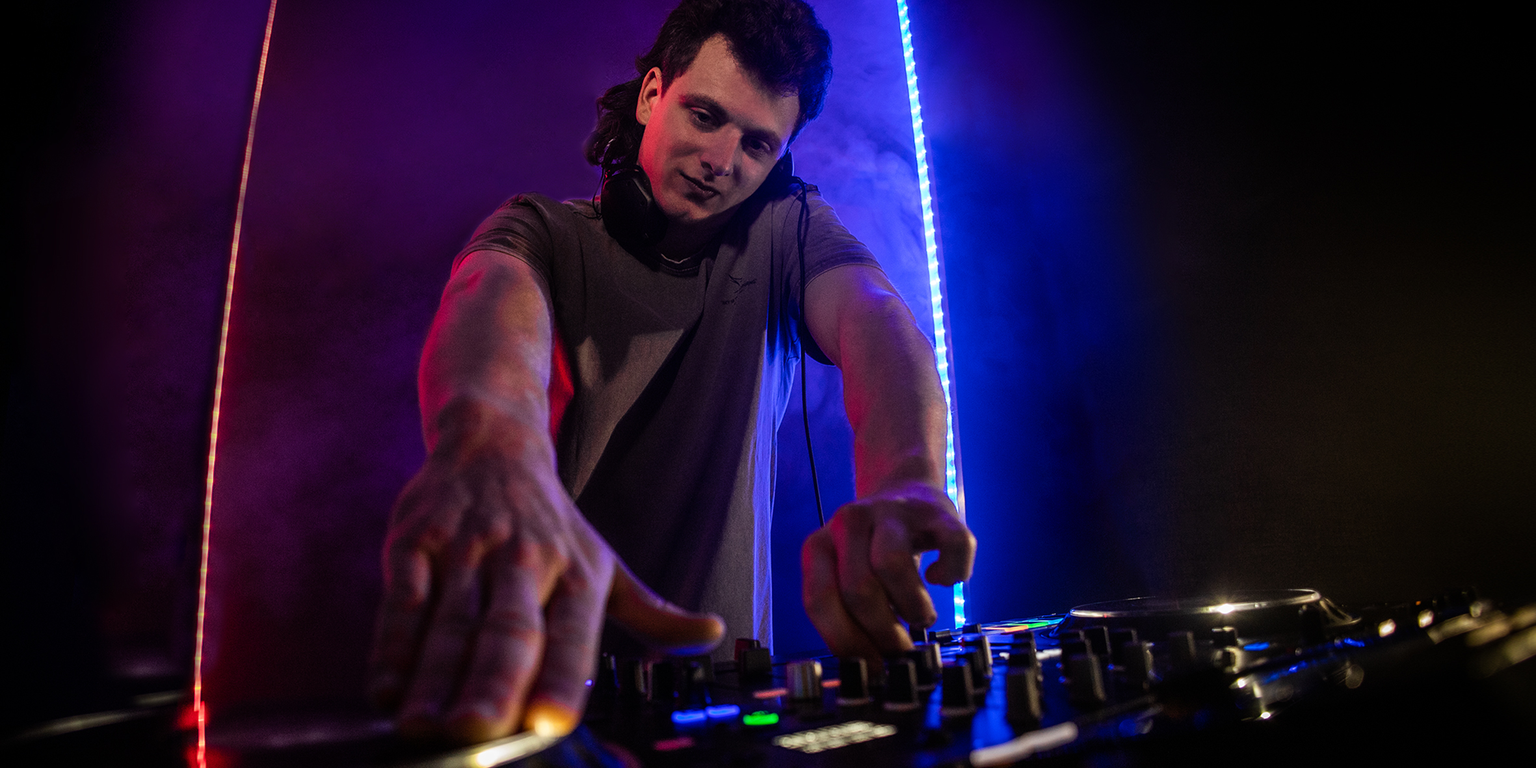
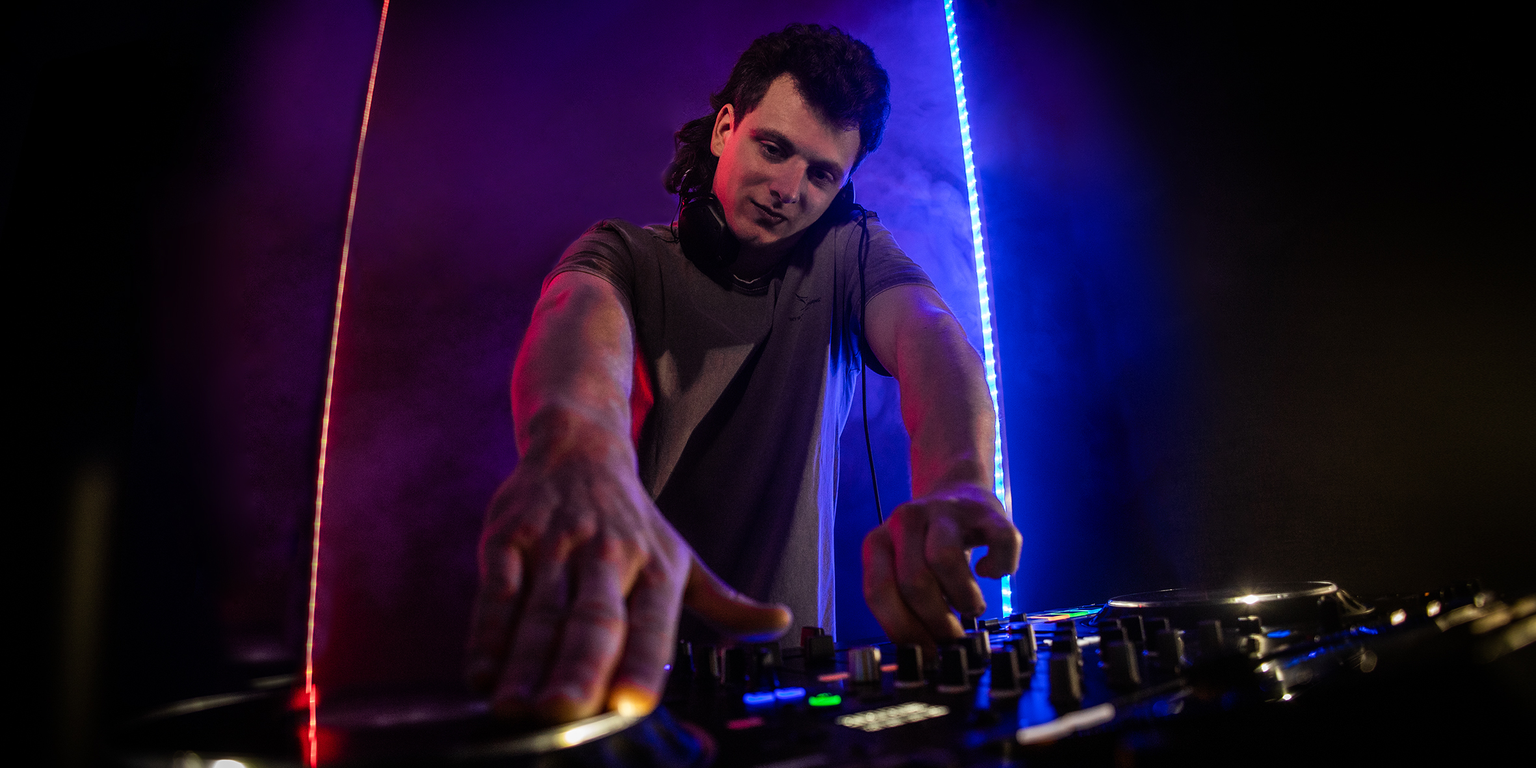
feat: 💄 ui/ux fixes with nils

diff --git a/src/lib/about/+page.svelte b/src/lib/about/+page.svelte
@@ -7,21 +7,6 @@
 	const options = {};
 </script>
 
-<div class="mt-16 w-full flex flex-row justify-center text-5xl">
-	<Text text="*Das bin ich*" />
-	<div
-		class="flex flex-row justify-center transform duration-1000 ease-in-out text-text mt-2 h-[40px]"
-		use:inview={options}
-		on:enter={(event) => {
-			const { inView } = event.detail;
-			isInView = inView;
-		}}
-		class:rotate-180={isInView}
-		class:-rotate-180={!isInView}
-	>
-		<Icon icon="emojione-monotone:optical-disk" height={40} width={40} />
-	</div>
-</div>
 <div
 	id="audiosamples"
 	class="w-full text-center flex flex-row justify-center space-x-10 pt-5 mb-16"
@@ -39,7 +24,6 @@
 						text="
 						Lorem ipsum dolor sit amet, consectetur adipiscing elit, sed do eiusmod tempor incididunt ut labore et dolore magna aliqua. Tortor aliquam nulla facilisi cras. Magna fermentum iaculis eu non. A diam sollicitudin tempor id eu. Ac orci phasellus egestas tellus rutrum tellus pellentesque. At in tellus integer feugiat scelerisque varius. Blandit aliquam etiam erat velit scelerisque. Convallis posuere morbi leo urna molestie at elementum eu. Ipsum nunc aliquet bibendum enim. Ornare massa eget egestas purus viverra accumsan in nisl. Aliquam faucibus purus in massa tempor nec feugiat nisl. Consequat interdum varius sit amet mattis vulputate enim nulla aliquet. Eget nulla facilisi etiam dignissim diam quis. Tempor nec feugiat nisl pretium fusce. Id cursus metus aliquam eleifend. Dui vivamus arcu felis bibendum ut tristique.
 
-Amet consectetur adipiscing elit ut aliquam purus. Augue interdum velit euismod in pellentesque massa. Elit ullamcorper dignissim cras tincidunt lobortis. Natoque penatibus et magnis dis parturient montes. Eros in cursus turpis massa tincidunt. Viverra aliquet eget sit amet tellus cras adipiscing enim. Nunc non blandit massa enim. Praesent elementum facilisis leo vel fringilla. Tellus integer feugiat scelerisque varius morbi. Pellentesque habitant morbi tristique senectus et. Etiam erat velit scelerisque in dictum. Amet porttitor eget dolor morbi non arcu. Aliquet bibendum enim facilisis gravida neque convallis a. Hendrerit gravida rutrum quisque non tellus orci ac auctor. Augue mauris augue neque gravida in fermentum et.
 					"
 					/>
 				</div>

diff --git a/src/lib/lander/+page.svelte b/src/lib/lander/+page.svelte
@@ -5,34 +5,29 @@
 	import Logo from '$lib/Logo/+page.svelte';
 </script>
 
-<div class="w-full h-screen flex flex-row justify-center mainBackground">
-	<div class="h-screen flex flex-col justify-center w-1/2">
+<div class="absolute w-full h-screen flex flex-row mt-6 justify-between">
+	<div class="w-[11rem] ml-6">
 		<Logo />
-		<!-- <MediaQuery query="desktop">
-			<div class="w-full mt-4 flex flex-col lg:flex-row lg:space-x-10 justify-center">
-				<div
-					use:scrollTo={{ ref: 'contact', offset: -window.innerHeight * 0.8, duration: 1500 }}
-					class="mt-4 w-full text-2xl flex flex-row justify-center bg-secondary font-bold p-2 border rounded-md"
-				>
-					<Text text="*Kontakt*" />
-				</div>
-				<a
-					href="https://www.youtube.com/@nilsfocke"
-					target="_blank"
-					rel="noreferrer"
-					class="mt-4 w-full text-2xl flex flex-row justify-center bg-secondary font-bold p-2 border rounded-md"
-				>
-					<Text text="*Live DJ Mix*" />
-				</a>
-			</div>
-		</MediaQuery> -->
 	</div>
+	<div class="w-[20rem] mr-6 h-20 bg-surface">Sozial media</div>
 </div>
+<img class="h-screen object-cover" src="/Title_Nils_Focke.jpg" alt="Title Nils Focke" />
 
-<style>
-	.mainBackground {
-		background-image: url('/Title_Nils_Focke.jpg');
-		background-size: cover;
-		background-position: center;
-	}
-</style>
+<!-- <MediaQuery query="desktop">
+	<div class="w-full mt-4 flex flex-col lg:flex-row lg:space-x-10 justify-center">
+		<div
+			use:scrollTo={{ ref: 'contact', offset: -window.innerHeight * 0.8, duration: 1500 }}
+			class="mt-4 w-full text-2xl flex flex-row justify-center bg-secondary font-bold p-2 border rounded-md"
+		>
+			<Text text="*Kontakt*" />
+		</div>
+		<a
+			href="https://www.youtube.com/@nilsfocke"
+			target="_blank"
+			rel="noreferrer"
+			class="mt-4 w-full text-2xl flex flex-row justify-center bg-secondary font-bold p-2 border rounded-md"
+		>
+			<Text text="*Live DJ Mix*" />
+		</a>
+	</div>
+</MediaQuery> -->

diff --git a/src/lib/contact/+page.svelte b/src/lib/contact/+page.svelte
@@ -5,7 +5,7 @@
 	let booking: boolean;
 </script>
 
-<div id="contact" class="w-full mb-36">
+<div id="contact" class="w-full mb-20">
 	<div class="w-full flex flex-row justify-center">
 		<div class="w-1/2 flex flex-col space-y-5">
 			<div class="mt-16 text-5xl flex flex-row justify-center">
@@ -24,9 +24,8 @@
 						</div>
 						<div class="flex flex-row justify-center">
 							<div class="mt-2">
-								<Text text="*Mein Standort*" />
 								<div class="mt-2">
-									<Text text="48143 Münster" />
+									<Text text="48308 Senden" />
 								</div>
 							</div>
 						</div>
@@ -45,7 +44,6 @@
 					</div>
 					<div class="flex flex-row justify-center">
 						<div class="mt-2 p-2">
-							<Text text="*So kannst du mich erreichen*" />
 							<div class="mt-2 flex flex-row">
 								<div>
 									<Text text="Phone:" />
@@ -54,7 +52,7 @@
 									</div>
 								</div>
 								<div class="ml-4">
-									<Text text="+49 173 123321" />
+									<Text text="+49 1525 6594780" />
 									<div class="mt-1">
 										<Text text="info@nilsfocke.de" />
 									</div>

diff --git a/src/routes/+page.svelte b/src/routes/+page.svelte
@@ -9,6 +9,7 @@
 	let scrollPosition = 0;
 </script>
 
+<!-- <svelte:window bind:scrollY={scrollPosition} /> -->
 <!-- <SvelteSeo
 	title="DJ Nils Focke"
 	description="Mein Name ist Nils Focke. Ich bin DJ und kenne mich in der House- und Hardstyle Szene aus."
@@ -19,10 +20,14 @@
 /> -->
 <div class="w-full min-h-screen flex flex-row justify-center bg-black scroll-smooth">
 	<div class="w-screen flex flex-col">
-		<div class="bg-black z-0" style="transform: translateY({scrollPosition * 0.5}px)">
+		<div class="bg-black z-0">
 			<Lander />
 		</div>
-		<div use:scrollRef={'gallery'} class="bg-secondary z-10 opacity-95">
+		<div
+			use:scrollRef={'gallery'}
+			class="bg-gradient-to-r from-primary to-secondary z-20 rounded-3xl"
+		>
+			<!-- style="transform:translate(0px, {-scrollPosition + window.innerHeight}px)" -->
 			<Gallery />
 		</div>
 		<div use:scrollRef={'about'} class="bg-black z-10 ">

diff --git a/src/lib/gallery/+page.svelte b/src/lib/gallery/+page.svelte
@@ -34,9 +34,6 @@
 <svelte:window bind:innerWidth />
 
 <div class="flex flex-col w-full justify-center text-5xl">
-	<div class="pt-10 px-6 flex flex-row justify-center">
-		<Text text="*So sehen meine Auftritte aus*" />
-	</div>
 	<div class="mt-10 mb-10 flex flex-col">
 		<MediaQuery query="desktop">
 			<ImageCarousel medias={images} />

diff --git a/src/lib/Logo/+page.svelte b/src/lib/Logo/+page.svelte
@@ -1,7 +1,7 @@
 <script lang="ts">
 	import { onMount } from 'svelte';
 	import { draw, fade, fly } from 'svelte/transition';
-	let mounted = false;
+	let mounted = true;
 	let hovering = false;
 	onMount(() => (mounted = true));
 </script>
